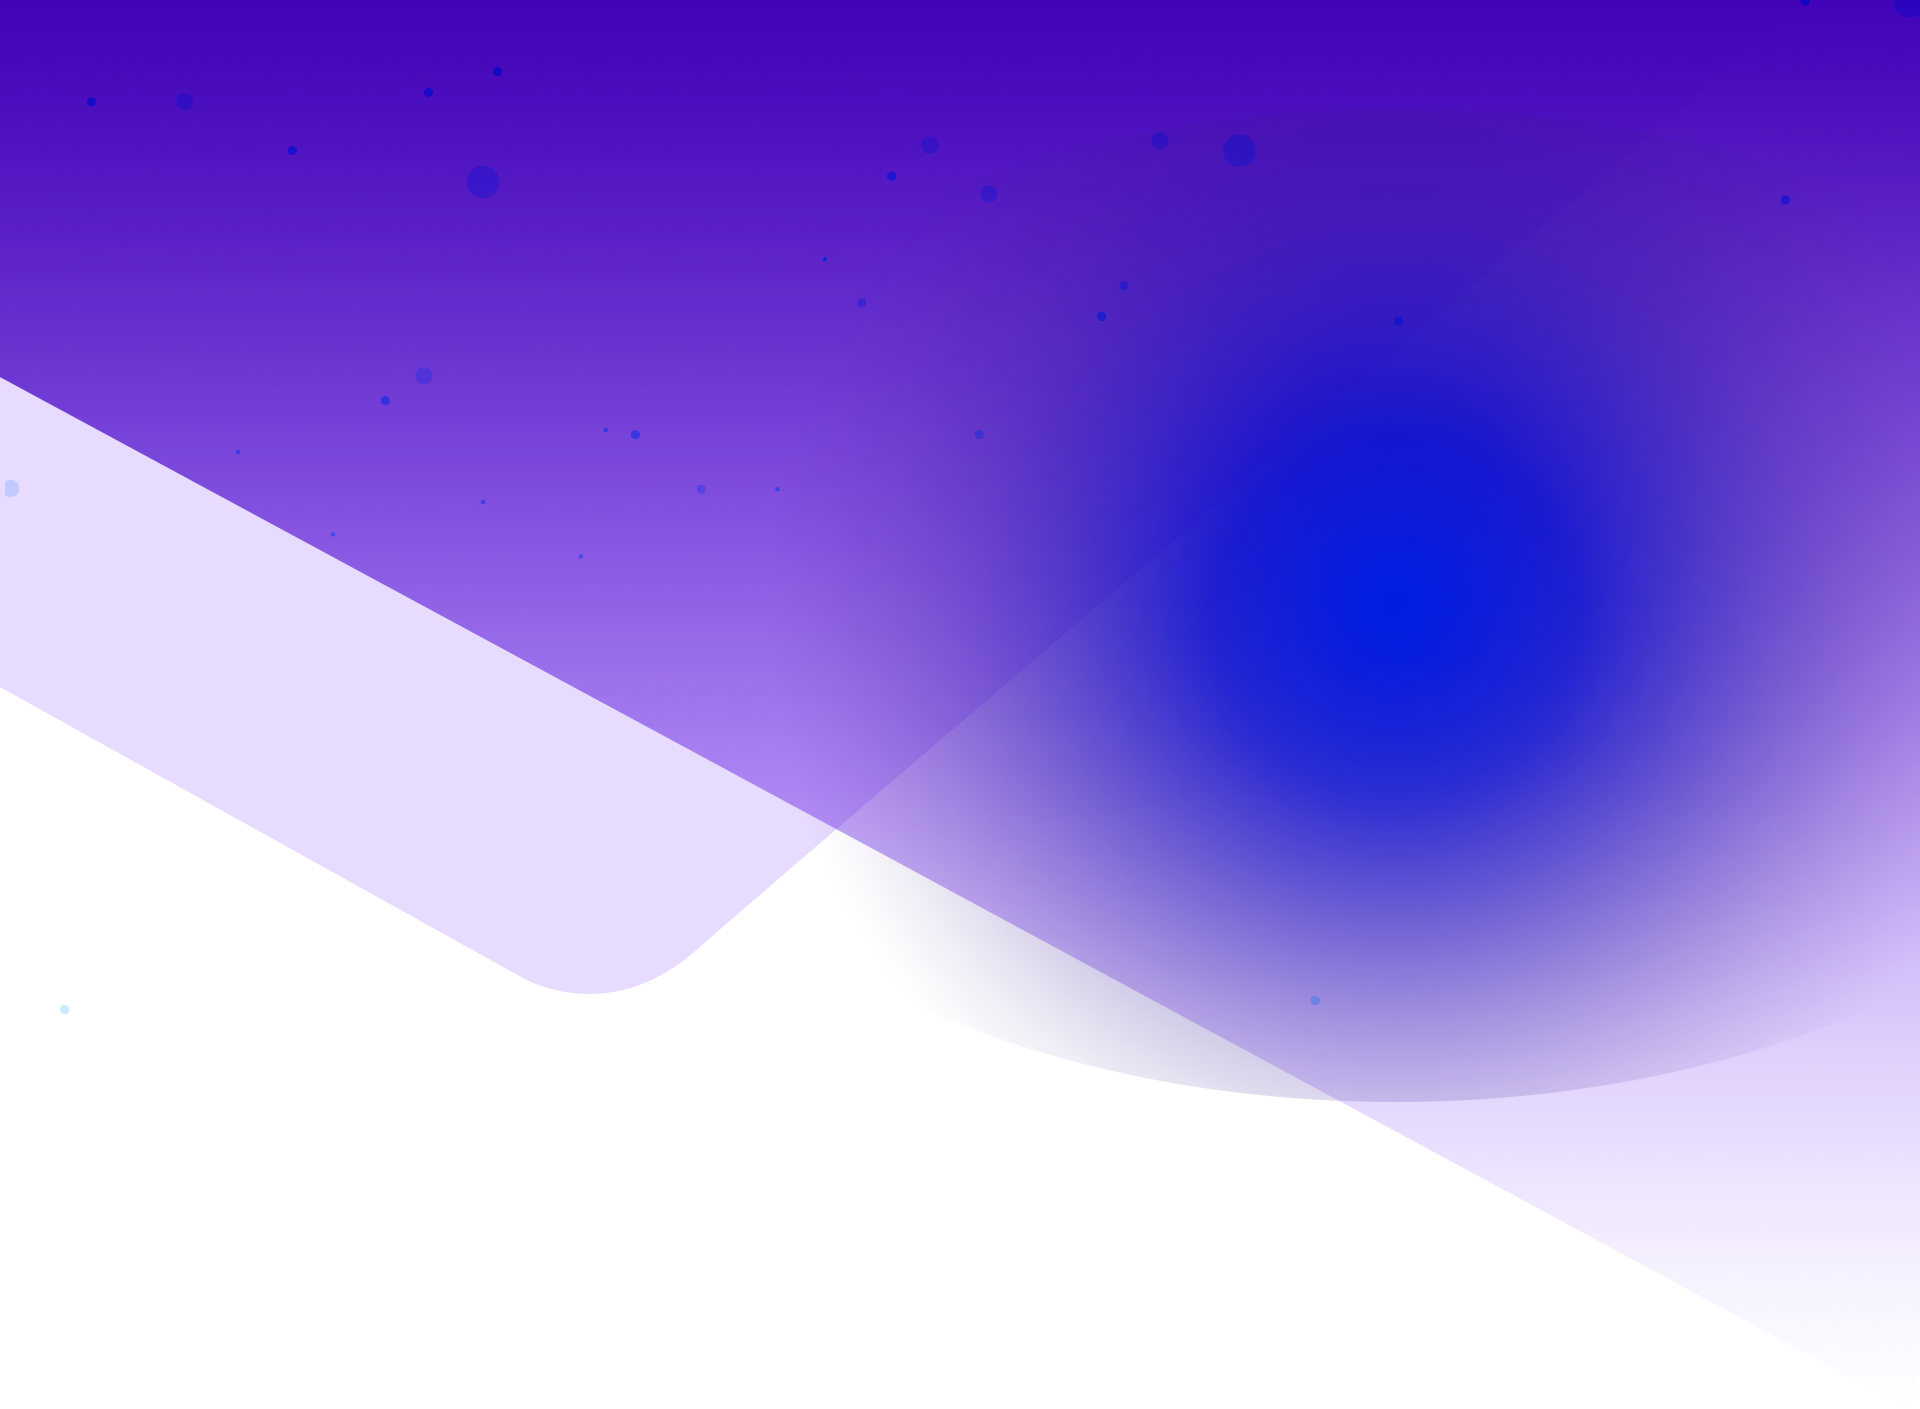
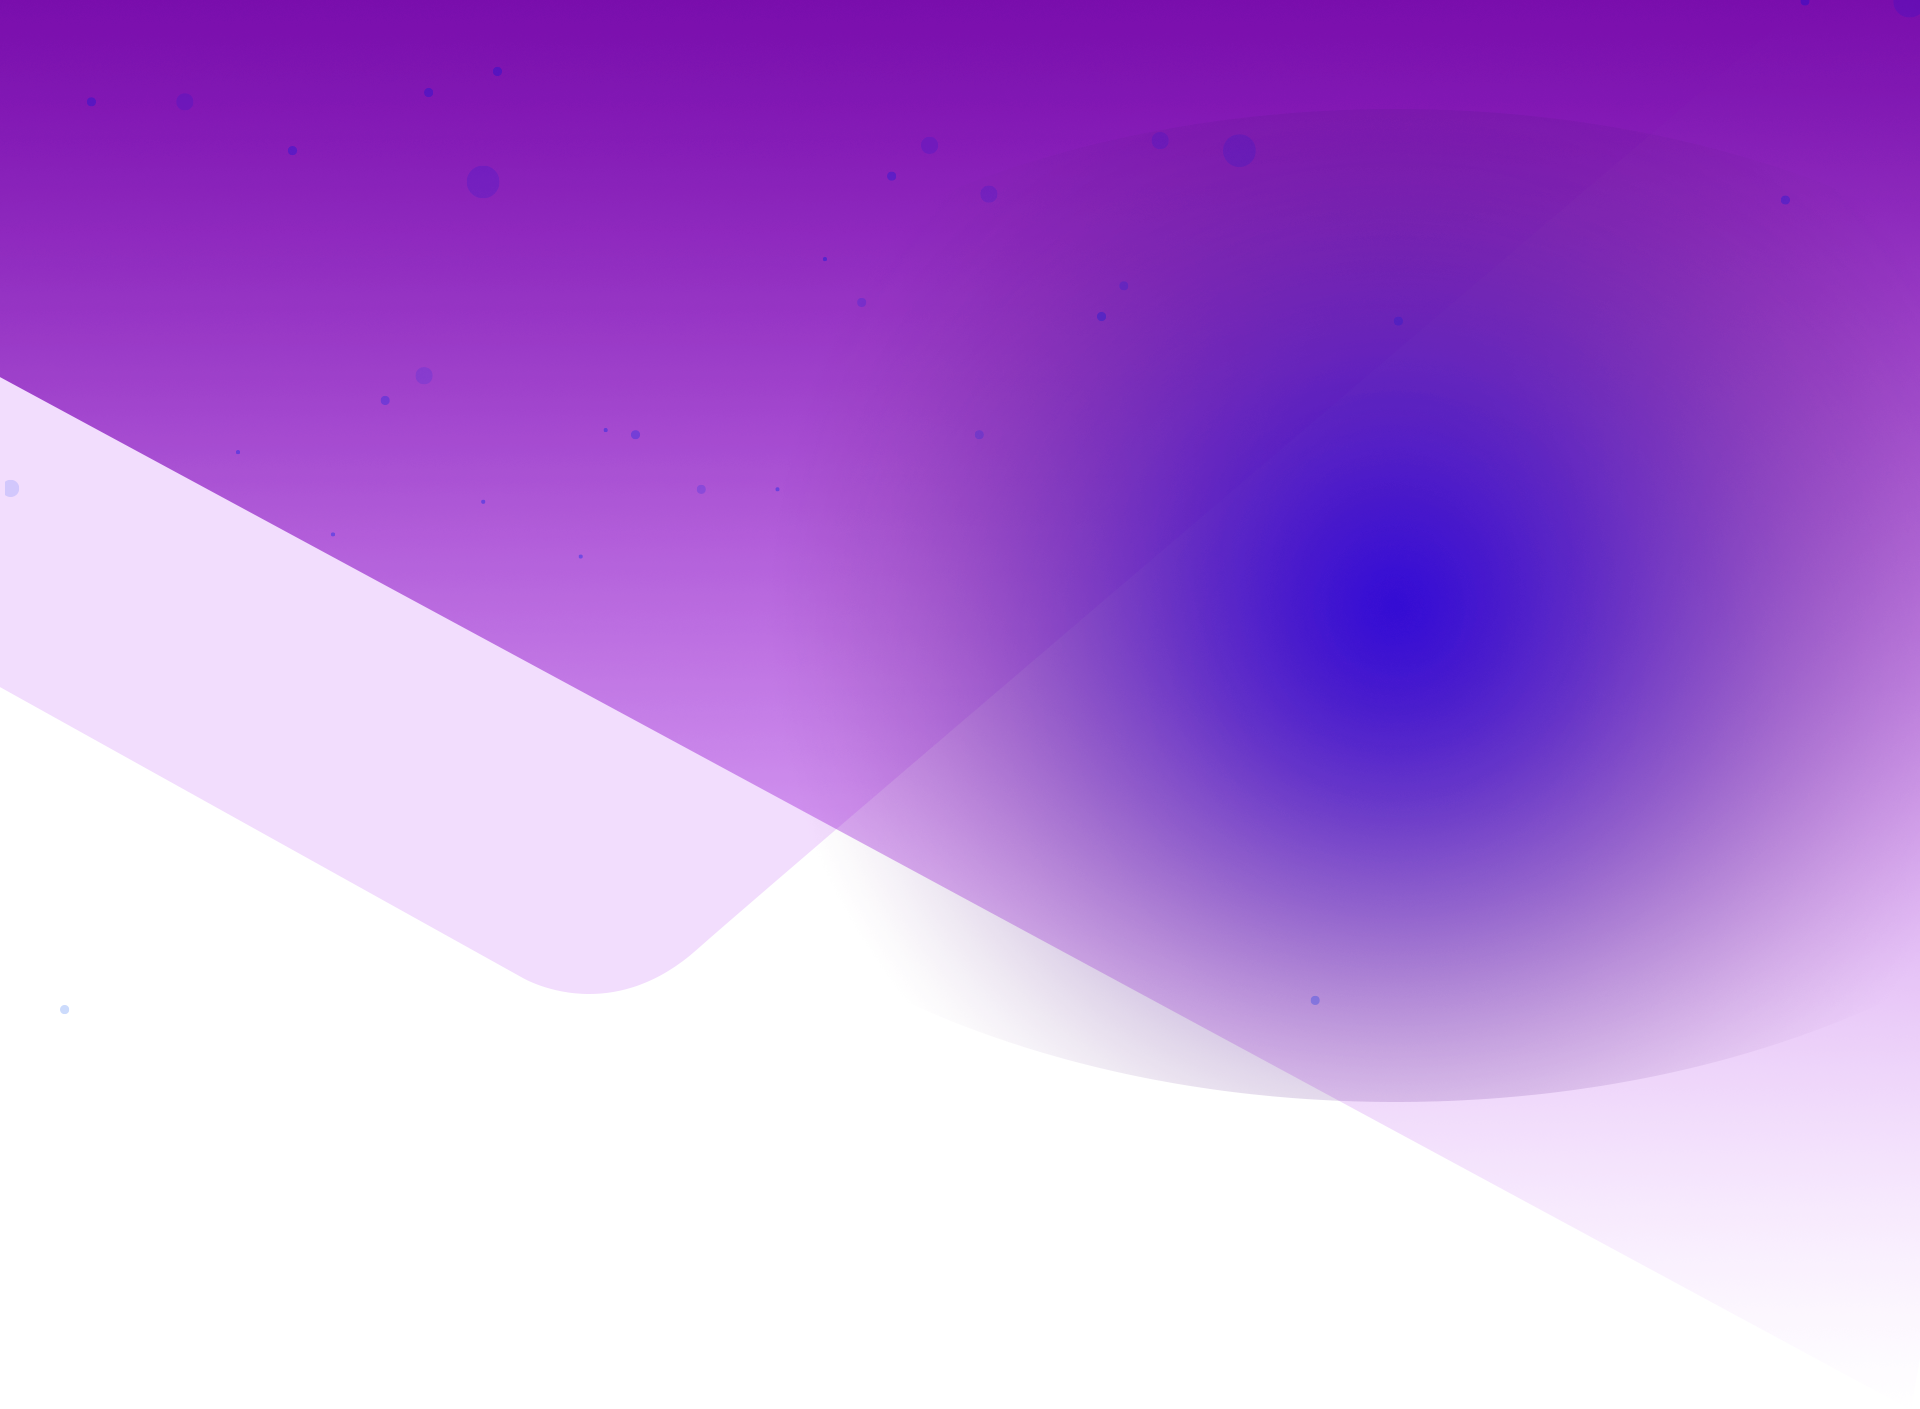
fix style

diff --git a/index.html b/index.html
@@ -110,6 +110,11 @@
 								<li><a data-aos="fade-left" data-aos-duration="1500"
 									href="javascript:addLiq();">Add Liquidity</a></li>
 							</ul>
+							<br>
+							<ul class="button-group clearfix mt-4">
+								<li><a data-aos="fade-right" data-aos-duration="1500" target="_blank"
+										href="https://www.coingecko.com/en/coins/solana-inu"><img style="width: 100px;" src="images/logo/ezgif-2-dc7485b190ac.png" alt=""></a></a></li>								
+							</ul>
 							<!-- <ul class="button-group clearfix">
 								<li><a data-aos="fade-right" data-aos-duration="1500"
 									https://app.atrix.finance/#/pools/Hvkg2eMoVAa7fHQYJJzw7K26HwFaV5KPE29YqsyzBEoM/deposit
@@ -122,15 +127,11 @@
 					<div class="container">
 						<div class="partner-slider" id="slider1">
 							<div class="item"><a target="_blank" href="https://trade.dexlab.space/#/market/G3Bss3a2tif6eHNzWCh14g5k2H4rwBAmE42tbckUWG5T"><img src="images/logo/dexlab-logo-white.png" alt=""></a></div>
-							<div class="item"><a target="_blank" href="https://app.atrix.finance/#/farms/9FRYSg4hzDnqhXZtHFr1eBH9pf13bNgzwhwJRfpLkqYM/stake"><img src="images/logo/atrix-text.png" alt=""></a></div>
 							<div class="item"><a target="_blank" href="https://www.solape.io/#/"><img src="images/logo/solape.png" alt=""></a></div>
+							<!-- <div class="item"><a target="_blank" href="https://www.coingecko.com/en/coins/solana-inu"><img src="images/logo/ezgif-2-dc7485b190ac.png" alt=""></a></div> -->
 							<div class="item"><a target="_blank" href="https://dex.aldrin.com/chart/spot/INU_USDC"><img src="images/logo/download.png" alt=""></a></div>
-							<div class="item"><a target="_blank" href="https://raydium.io/liquidity/?ammId=6cVw51aB4WjtnNGWAmD67DyJDGZqKf7kifufqUtntq9B"><img src="images/logo/raydium Liquidity Logo.png" alt=""></a></div>
-							<div class="item"><a target="_blank" href="https://trade.dexlab.space/#/market/G3Bss3a2tif6eHNzWCh14g5k2H4rwBAmE42tbckUWG5T"><img src="images/logo/dexlab-logo-white.png" alt=""></a></div>
-							<div class="item"><a target="_blank" href="https://app.atrix.finance/#/farms/9FRYSg4hzDnqhXZtHFr1eBH9pf13bNgzwhwJRfpLkqYM/stake"><img src="images/logo/atrix-text.png" alt=""></a></div>
-							<div class="item"><a target="_blank" href="https://www.solape.io/#/"><img src="images/logo/solape.png" alt=""></a></div>
-							<div class="item"><a target="_blank" href="https://dex.aldrin.com/chart/spot/INU_USDC"><img src="images/logo/download.png" alt=""></a></div>
-							<div class="item"><a target="_blank" href="https://raydium.io/liquidity/?ammId=6cVw51aB4WjtnNGWAmD67DyJDGZqKf7kifufqUtntq9B"><img src="images/logo/raydium Liquidity Logo.png" alt=""></a></div>
+							<div class="item"><a target="_blank" href="https://dex.asherasol.com/#/market/G3Bss3a2tif6eHNzWCh14g5k2H4rwBAmE42tbckUWG5T"><img src="images/logo/ashera dex logo.png" alt=""></a></div>
+							<div class="item"><a target="_blank" href="https://dex.solhamster.space/#/market/G3Bss3a2tif6eHNzWCh14g5k2H4rwBAmE42tbckUWG5T"><img src="images/logo/Hamster Dex logo.png" alt=""></a></div>				
 						</div>
 
 						<div class="partner-slider" id="slider2">
@@ -350,14 +351,14 @@
 				series: [{
 					name: '%',
 					data: [
-						['Charitable Donations', 12.85],
-						['Strategic Partners', 12.85],
-						['Marketing', 12.85],
-						{ name: 'Liquidity Incentives', y: 10, sliced: true, selected: true },
-						['Farming & Staking', 12.85],
-						['Team', 12.85],
-						['Airdrop', 12.85],
-						['Sacrificial Burn', 12.85]
+						{ name: 'Liquidity Incentives', color:"#28a9e2", y: 10, sliced: true, selected: true },
+						{ name: 'Marketing', color:"#acd03a", y: 20},
+						{ name: 'Charitable Donations', color:"#f7c413", y: 3.1},
+						{ name: 'Strategic Partners', color:"#ea406e", y: 10},
+						{ name: 'Farming & Staking', color:"#9e3e95", y: 20},
+						{ name: 'Team', color:"#61489c", y: 5},
+						{ name: 'Airdrop', color:"#4c62ad", y: 25},
+						{ name: 'Sacrificial Burn', color:"#0272ba", y: 6.9}
 					]
 				}],
 				tooltip: {

diff --git a/css/style.css b/css/style.css
@@ -263,7 +263,7 @@ body .theme-button:hover span {opacity: 1;}
 .theme-main-menu.full-width {padding: 55px 80px 0;}
 .menu-wrapper {position: relative;}
 .theme-main-menu .logo {float: left;}
-.theme-main-menu .logo a {display: block;margin-top: -10px;}
+.theme-main-menu .logo a {display: block;margin-top: -20px;}
 .theme-main-menu #mega-menu-holder,.theme-main-menu .right-widget {float: right;padding: 0;}
 .theme-main-menu .right-widget {position: relative;z-index: 9;}
 #mega-menu-holder ul> li> a {
@@ -813,7 +813,7 @@ body .theme-button:hover span {opacity: 1;}
 .apps-overview .inner-wrapper .text h6 {
   font-family: 'proxima_novaregular';
   font-size: 16px;
-  color: #7f9eeb;
+  color: #d0d0d9;
   padding-bottom: 20px;
   word-break: break-all;
 }
@@ -848,7 +848,7 @@ body .theme-button:hover span {opacity: 1;}
   position: absolute;
   z-index: 1;
 }
-.apps-overview.color-two {background: #2a17a9;margin-bottom: 0;}
+.apps-overview.color-two {background: #8b29cc;margin-bottom: 0;}
 .apps-overview.color-two .inner-wrapper .button-group li a:hover {background: #00c9d7;color: #fff;}
 .apps-overview.color-three {background: #610bcf; padding: 160px 0 250px;margin-bottom: 50px;}
 .apps-overview.color-three .shape {
@@ -1175,7 +1175,7 @@ body .theme-button:hover span {opacity: 1;}
   color: #fff;
   margin-left: 5px;
 }
-.theme-footer.dark-style {background: #2c19ae;}
+.theme-footer.dark-style {background: #8b29cc;}
 .theme-footer.dark-style .top-footer-data-wrapper {
   border-top:1px solid rgba(241,241,241,0.08);
   border-bottom:1px solid rgba(241,241,241,0.08);
@@ -1332,7 +1332,7 @@ body .theme-button:hover span {opacity: 1;}
 }
 /*-------------------- Token Sale -----------------*/
 .token-sale-section.dark-bg {
-  background: #2a17a9;
+  background: #8b29cc;
   position: relative;
   z-index: 1;
 }
@@ -1485,7 +1485,7 @@ body .theme-button:hover span {opacity: 1;}
   font-weight: normal;
 }
 .our-road-map .time-line-wrapper #timeline-frame .roadmap__events__event .event {
-  border: 1px solid #282fea;
+  border: 1px solid #4312bb;
   border-radius: 3px;
   width: 100%;
   height: 100%;
@@ -1495,9 +1495,9 @@ body .theme-button:hover span {opacity: 1;}
   content: '';
   width: 10px;
   height: 10px;
-  border-left: 1px solid #282fea;
-  border-bottom: 1px solid #282fea;
-  background: #1217a4;
+  border-left: 1px solid #4312bb;
+  border-bottom: 1px solid #4312bb;
+  background: #3506ad;
   position: absolute;
   left: 50%;
   margin-left: -5px; 
@@ -1518,18 +1518,18 @@ body .theme-button:hover span {opacity: 1;}
 .our-road-map .time-line-wrapper #timeline-frame .roadmap__events__event .event p {
   font-size: 16px;
   line-height: initial;
-  color: #7b7ffb;
+  color: #3506ad;
   padding-top: 10px;
 }
 .our-road-map .roadmap.roadmap--orientation-auto .roadmap__events:after {
   height: 2px;
-  background: #282ed7;
+  background: #4312bb;
 }
 .our-road-map .roadmap.roadmap--orientation-auto .roadmap__events__event:before {
   width: 11px;
   height: 11px;
-  border: 2px solid #363bda;
-  background: #0c12ac;
+  border: 2px solid #4312bb;
+  background: #3506ad;
   z-index: 1;
 }
 .our-road-map .roadmap.roadmap--orientation-auto .roadmap__events__event:nth-child(odd):before {top:32px;}
@@ -2076,9 +2076,19 @@ body .theme-button:hover span {opacity: 1;}
 }
 
 #faq a {
-  color:#7b7ffb;
+  color:#d0d0d9;
 }
 
 #slider2 img {
   width: 234px;
+}
+
+.theme-main-menu .logo a img {
+  width: 80px;
+}
+
+.theme-main-menu.fixed .logo a img {
+  margin-top: -10px;
+  position: relative;
+  top:10px;
 }

diff --git a/css/color-two.css b/css/color-two.css
@@ -1,5 +1,5 @@
-.theme-top-section,.our-feature-two.dark-bg {background: #2c19ae;}
-.scroll-top,.theme-main-menu #mega-menu-holder .navbar-toggler {color: #2c19ae; }
+.theme-top-section,.our-feature-two.dark-bg {background: #8b29cc;}
+.scroll-top,.theme-main-menu #mega-menu-holder .navbar-toggler {color: #8b29cc; }
 #mega-menu-holder ul> li> a:before,.theme-banner-two .main-text-wrapper .button-group li a:hover,.contact-section-dark form button {
 	background: #efd421;
 }
@@ -11,9 +11,9 @@
 	border-color: #efd421;
 }
 
-#polyglotLanguageSwitcher ul.dropdown {box-shadow: 0px 0px 22.5px 7.5px rgb(36, 41, 179);}
+#polyglotLanguageSwitcher ul.dropdown {box-shadow: 0px 0px 22.5px 7.5px #8b29cc;}
 .theme-main-menu.color-white .right-widget .login-button a:hover {background: linear-gradient( 83deg, rgb(18,204,141) 0%, rgb(0,172,187) 100%);border-color: transparent;}
 .scroll-top {background: #fff;}
 .theme-title h2 {color: #fff;}
 ::-webkit-scrollbar-thumb { background: #efd421;}
-.theme-main-menu.fixed {background: #2c19ae;}
+.theme-main-menu.fixed {background: #8b29cc;}
